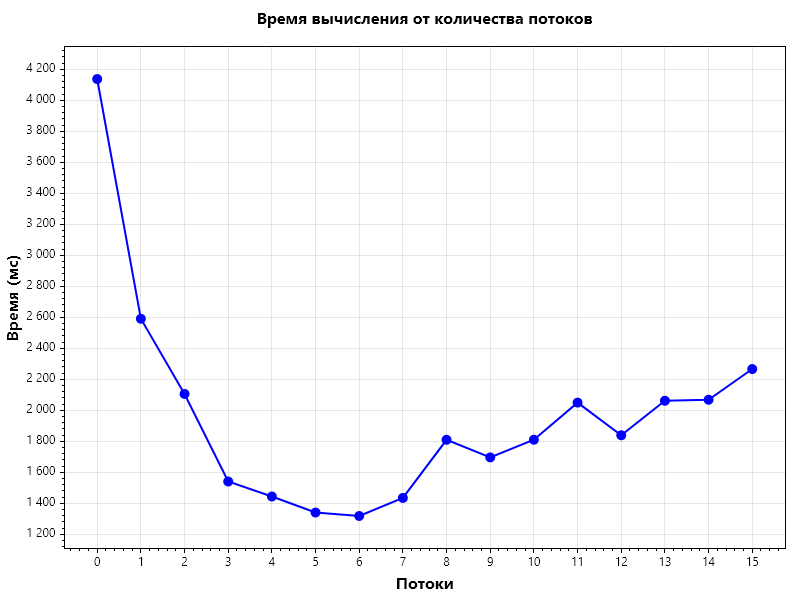
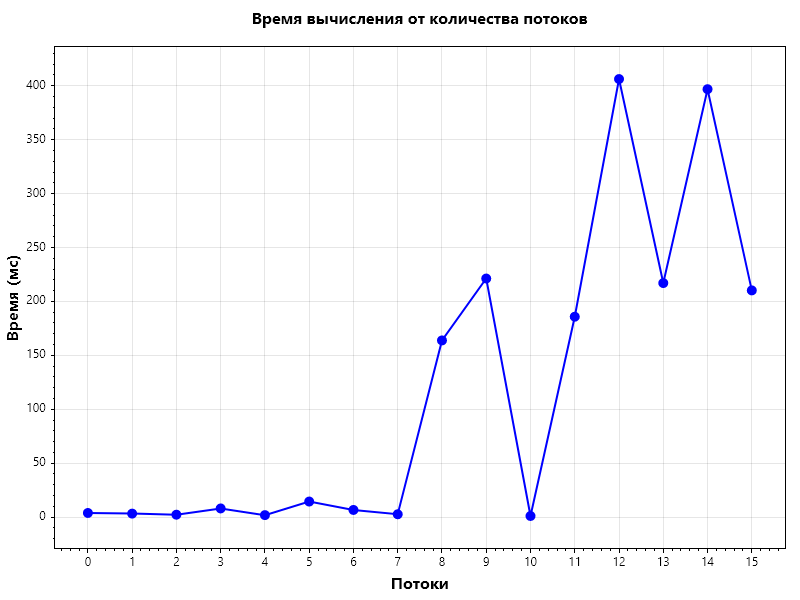
fix: add besttime logic correctly, add optimize multicores computation

diff --git a/task14/Class1.cs b/task14/Class1.cs
@@ -16,6 +16,14 @@ public class DefiniteIntegral
     // threadsNumber - число потоков, которые используются для вычислений
     //
 
+    [DllImport("kernel32.dll")]
+    static extern IntPtr GetCurrentThread();
+
+    [DllImport("kernel32.dll")]
+    static extern IntPtr SetThreadAffinityMask(IntPtr hThread, IntPtr dwThreadAffinityMask);
+
+    // здесь и далее убираем оптимизацию чтобы программа не пропускала вычисления
+    [MethodImpl(MethodImplOptions.NoOptimization | MethodImplOptions.NoInlining)]
     public static double Solve(double a, double b, Func<double, double> function, double step, int threadsnumber)
     {
         if (threadsnumber <= 0 || step <= 0 || a >= b)
@@ -30,43 +38,46 @@ public class DefiniteIntegral
 
         using var barrier = new Barrier(threadsnumber);
 
-        //int completedCount = 0;
-
-        Thread[] threads = new Thread[threadsnumber];
+        int completedCount = 0;
 
         for (int i = 0; i < threadsnumber; i++)
         {
-            int threadIndex = i;
+            int idx = i;
+            double left = a + idx * segmentLength;
+            double right = a + (idx + 1) * segmentLength;
 
-            threads[i] = new Thread(() =>
+            // через пул более оптимизированно
+            ThreadPool.QueueUserWorkItem(_ =>
             {
                 try
                 {
-                    double segmentLength = (b - a) / threadsnumber;
-                    double leftBorder = a + threadIndex * segmentLength;
-                    double rightBorder = a + (threadIndex + 1) * segmentLength;
+                    // явно прописываем переключения ядер чтобы система не перерасприделяла потоки криво
+                    if (idx < processorCount)
+                        SetThreadAffinityMask(GetCurrentThread(), (IntPtr)(1 << idx));
 
-                    double localSum = ComputeSegment(leftBorder, rightBorder, function, step);
+                    double localSum = ComputeSegment(left, right, function, step);
 
+                    // атомарно складываем
                     InterlockedAdd(ref totalSum, localSum);
                 }
                 finally
                 {
                     barrier.SignalAndWait();
+
+                    Interlocked.Increment(ref completedCount);
                 }
             });
-
-            threads[i].Start();
         }
 
-        foreach (Thread thread in threads)
+        while (Volatile.Read(ref completedCount) < threadsnumber)
         {
-            thread.Join();
+            Thread.Yield();
         }
 
         return totalSum;
     }
 
+    [MethodImpl(MethodImplOptions.NoOptimization | MethodImplOptions.NoInlining)]
     static double ComputeSegment(double a, double b, Func<double, double> function, double step)
     {
         int stepsCount = (int)((b - a) / step + 0.5);

diff --git a/OptimizeThreads/Program.cs b/OptimizeThreads/Program.cs
@@ -9,12 +9,13 @@ class PerformanceResearch
     static double a = -100, b = 100;
     static readonly Func<double, double> func = Math.Sin;
 
+    [MethodImpl(MethodImplOptions.NoOptimization | MethodImplOptions.NoInlining)]
     static void Main()
     {
         // определение оптимального шага
         double[] steps = { 1e-1, 1e-2, 1e-3, 1e-4, 1e-5, 1e-6 };
         int stepIndex = 0;
-        int bestTime = int.MaxValue;
+        double bestTime = double.MaxValue;
 
         for (int i = 0; i < steps.Length; i++)
         {
@@ -23,8 +24,10 @@ class PerformanceResearch
             double error = Math.Abs(DefiniteIntegral.Solve(a, b, func, steps[i], 4));
 
             if (error < 1e-4 && (stepIndex == 0 || time < bestTime))
+            {
                 stepIndex = i;
-                
+                bestTime = time;
+            }
         }
 
         double optimalStep = steps[stepIndex];
@@ -35,11 +38,11 @@ class PerformanceResearch
         results[0] = MeasureTime(optimalStep, 1);
         Console.WriteLine($"{1,6} | {results[0],9:F1}");
         // для нескольких
-        for (int i=2; i<=16;i++)
-            {
-                results[i-1] = MeasureTime(optimalStep, i);
-                Console.WriteLine($"{i,6} | {results[i-1],9:F1}");
-            }
+        for (int i = 2; i <= 16; i++)
+        {
+            results[i - 1] = MeasureTime(optimalStep, i);
+            Console.WriteLine($"{i,6} | {results[i - 1],9:F1}");
+        }
 
         // результаты
         var best = results.OrderBy(x => x.Value).First();
@@ -60,6 +63,7 @@ class PerformanceResearch
         DrawChart(results, best);
     }
 
+    [MethodImpl(MethodImplOptions.NoOptimization | MethodImplOptions.NoInlining)]
     static double MeasureTime(double step, int threads)
     {
         var times = new List<long>();
